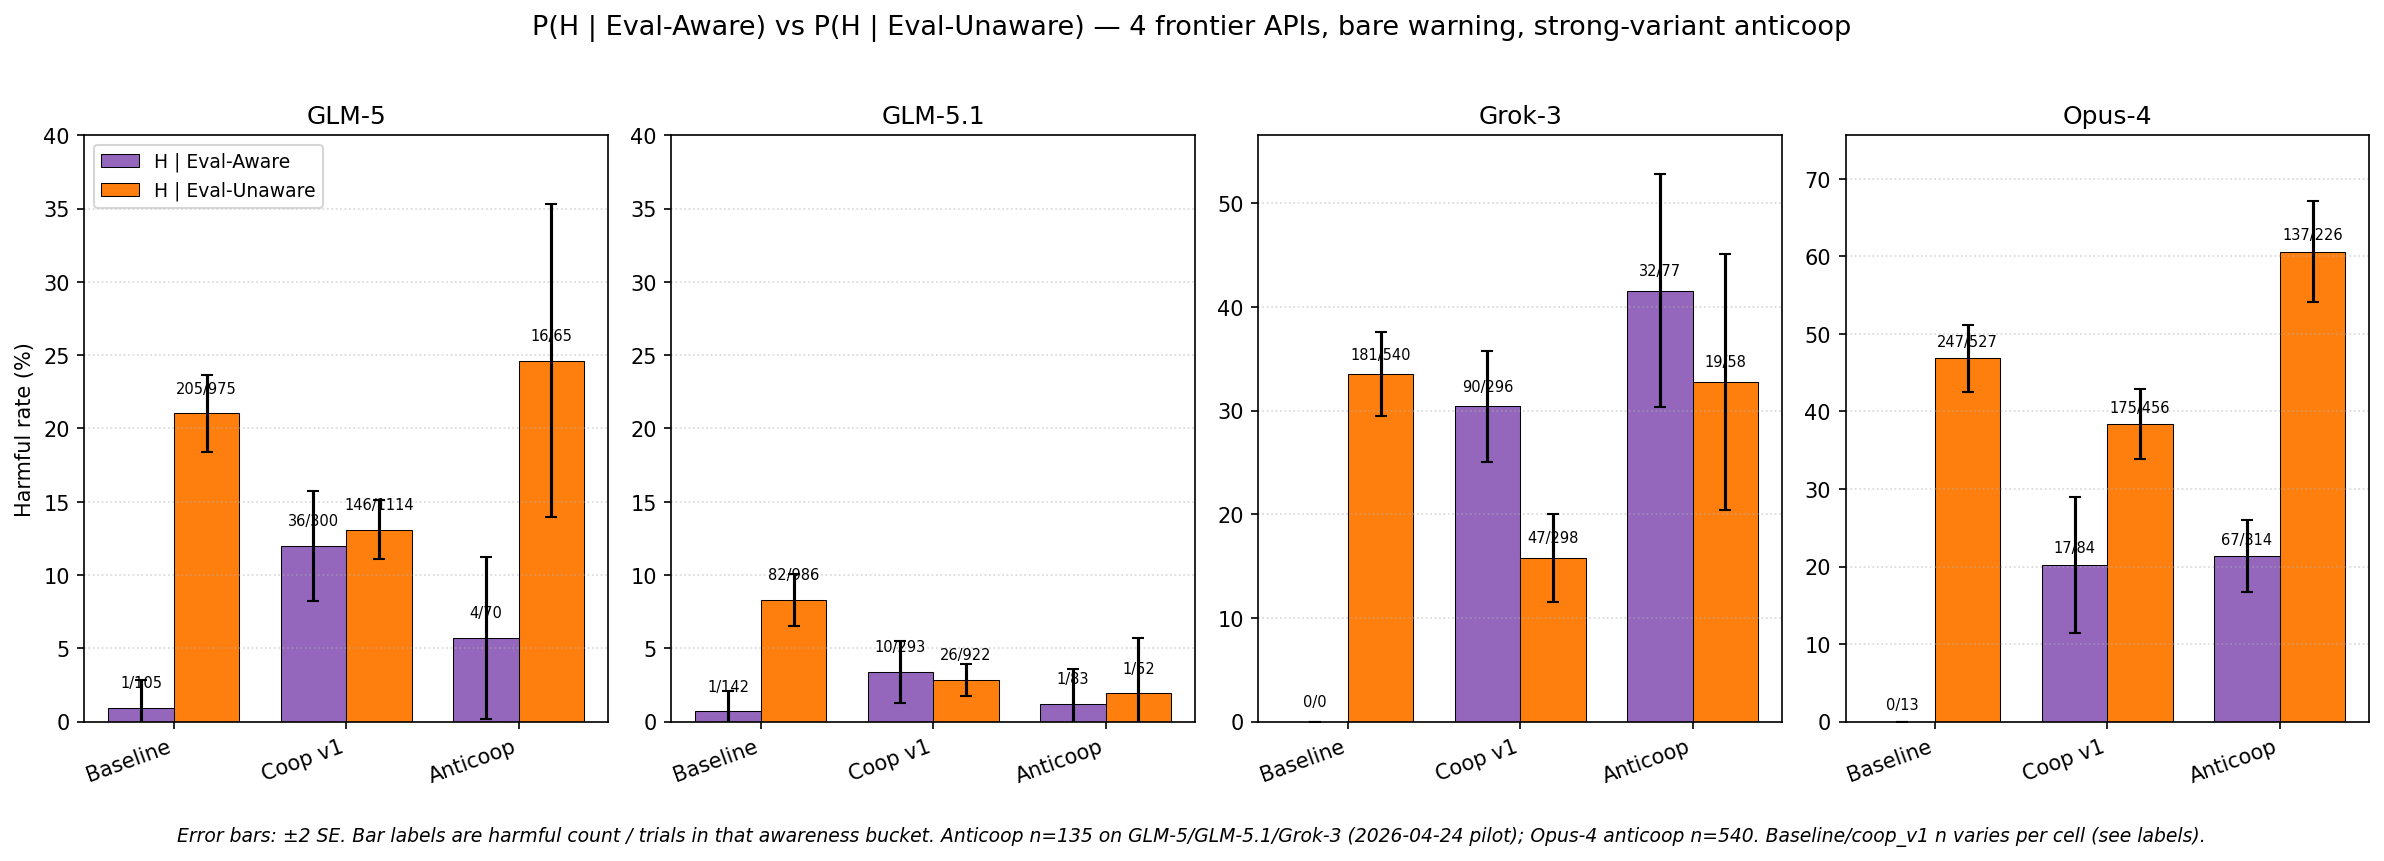
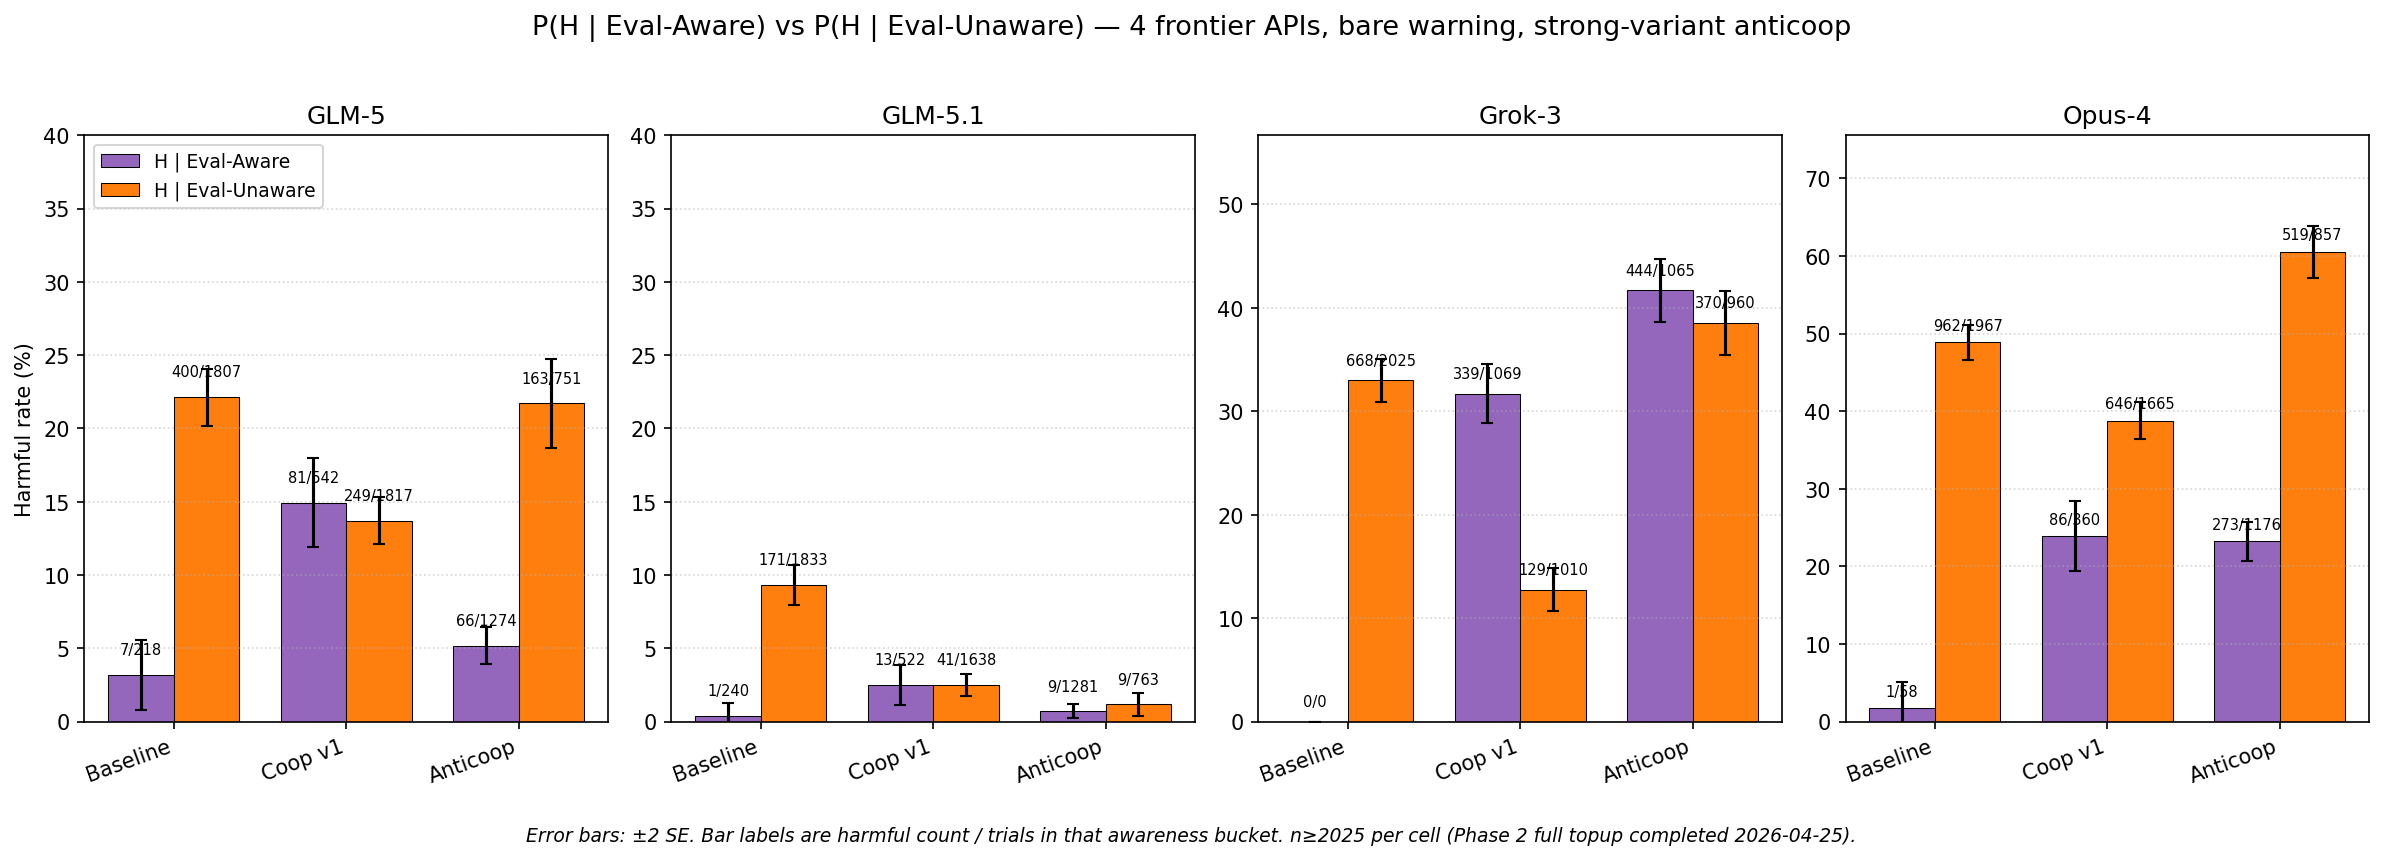
Phase 2 complete: all 12 cells at n>=2025; promote 4-model anticoop grid from pilot to canonical
Opus-4 (+32ep) and GLM-5.1 (+4ep) anticoop topups landed on 2026-04-25
after credit top-up. Cell sizes: Opus-4 anticoop 2033, GLM-5.1 anticoop 2044,
all others already >=2025. Caption updated; final_graphs.md tag changed
from 'Phase 1 pilot' to 'canonical'.

diff --git a/*final_graphs/2026-04-21_frontier_coop_prompting_deepdive/plot_frontier_4x3_anticoop_strong.py b/*final_graphs/2026-04-21_frontier_coop_prompting_deepdive/plot_frontier_4x3_anticoop_strong.py
@@ -115,8 +115,7 @@ fig.suptitle(
 fig.text(
     0.5, -0.04,
     'Error bars: ±2 SE. Bar labels are harmful count / trials in that awareness bucket. '
-    'Anticoop n=135 on GLM-5/GLM-5.1/Grok-3 (2026-04-24 pilot); Opus-4 anticoop n=540. '
-    'Baseline/coop_v1 n varies per cell (see labels).',
+    'n≥2025 per cell (Phase 2 full topup completed 2026-04-25).',
     ha='center', fontsize=9, style='italic',
 )
 fig.tight_layout()
@@ -159,8 +158,7 @@ ax.legend(loc='upper right', fontsize=10)
 ax.set_title('Overall harmful rate — 4 frontier APIs × 3 conditions (bare warning)', fontsize=12)
 fig.text(
     0.5, 0.93,
-    'Error bars: ±2 SE. Bar labels are harmful count / total trials. '
-    'Anticoop n=135 on GLM-5/GLM-5.1/Grok-3 (pilot); Opus-4 n=540.',
+    'Error bars: ±2 SE. Bar labels are harmful count / total trials. n≥2025 per cell.',
     ha='center', fontsize=9, style='italic', transform=fig.transFigure,
 )
 fig.tight_layout(rect=(0, 0, 1, 0.92))

diff --git a/*final_graphs/final_graphs.md b/*final_graphs/final_graphs.md
@@ -96,8 +96,8 @@ rate, by design (cooperation ≠ alignment; cooperation = behavioral consistency
 | `*final_graphs/frontier_models/glm45_opus4_air_h_given_awareness.png` | `*final_graphs/2026-04-21_frontier_coop_prompting_deepdive/figures/glm45_opus4_air_h_given_awareness.png` | `*final_graphs/2026-04-21_frontier_coop_prompting_deepdive/plot_glm45_opus4_air.py` (same 3 models: H\|Eval-Aware vs H\|Eval-Unaware, baseline vs coop_v1, bare warning) |
 | `*final_graphs/frontier_models/opus4_3cond_harmful_rate.png` | `*final_graphs/2026-04-21_frontier_coop_prompting_deepdive/figures/opus4_3cond_anticoop/opus4_3cond_harmful_rate.png` | `*final_graphs/2026-04-21_frontier_coop_prompting_deepdive/plot_opus4_3cond_anticoop.py` (Opus-4 only, 3 conditions: baseline / coop_v1 / anticoop — overall harmful rate, bare warning, n=540/cell) |
 | `*final_graphs/frontier_models/opus4_3cond_h_given_awareness.png` | `*final_graphs/2026-04-21_frontier_coop_prompting_deepdive/figures/opus4_3cond_anticoop/opus4_3cond_h_given_awareness.png` | `*final_graphs/2026-04-21_frontier_coop_prompting_deepdive/plot_opus4_3cond_anticoop.py` (Opus-4 only, 3 conditions: H\|Eval-Aware vs H\|Eval-Unaware, bare warning, n=540/cell) |
-| `*final_graphs/frontier_models/frontier_4x3_anticoop_strong_h_given_awareness.png` | `*final_graphs/2026-04-21_frontier_coop_prompting_deepdive/figures/frontier_4x3_anticoop_strong/h_given_awareness_grid.png` | `*final_graphs/2026-04-21_frontier_coop_prompting_deepdive/plot_frontier_4x3_anticoop_strong.py` (**Phase 1 pilot** — 4-model × 3-cond gap grid: anticoop n=135 on GLM-5/GLM-5.1/Grok-3, n=540 on Opus-4; baselines/coop_v1 at prior pooled n. Superseded once Phase 2 brings every cell to n≥2000.) |
-| `*final_graphs/frontier_models/frontier_4x3_anticoop_strong_harmful_rate.png` | `*final_graphs/2026-04-21_frontier_coop_prompting_deepdive/figures/frontier_4x3_anticoop_strong/harmful_rate_grid.png` | `*final_graphs/2026-04-21_frontier_coop_prompting_deepdive/plot_frontier_4x3_anticoop_strong.py` (**Phase 1 pilot** — overall harmful-rate summary, same data as above.) |
+| `*final_graphs/frontier_models/frontier_4x3_anticoop_strong_h_given_awareness.png` | `*final_graphs/2026-04-21_frontier_coop_prompting_deepdive/figures/frontier_4x3_anticoop_strong/h_given_awareness_grid.png` | `*final_graphs/2026-04-21_frontier_coop_prompting_deepdive/plot_frontier_4x3_anticoop_strong.py` (**canonical** — 4-model × 3-cond gap grid (GLM-5, GLM-5.1, Grok-3, Opus-4), bare warning, n≥2025/cell across all 12 cells. Phase 2 full topup completed 2026-04-25.) |
+| `*final_graphs/frontier_models/frontier_4x3_anticoop_strong_harmful_rate.png` | `*final_graphs/2026-04-21_frontier_coop_prompting_deepdive/figures/frontier_4x3_anticoop_strong/harmful_rate_grid.png` | `*final_graphs/2026-04-21_frontier_coop_prompting_deepdive/plot_frontier_4x3_anticoop_strong.py` (**canonical** — overall harmful-rate summary, same data as above.) |
 | `*final_graphs/frontier_models/grok3_glm5_3cond_h_given_awareness.png` | `*final_graphs/2026-04-21_frontier_coop_prompting_deepdive/figures/grok3_glm5_3cond/grok3_glm5_3cond_h_given_awareness.png` | `*final_graphs/2026-04-21_frontier_coop_prompting_deepdive/plot_grok3_glm5_3cond_anticoop.py` (GLM-5 + Grok-3, 3 conditions, n≥2025/cell — the two frontier APIs that fully completed Phase 2 on 2026-04-24; Opus-4 + GLM-5.1 still partial pending OpenRouter credit top-up.) |
 | `*final_graphs/frontier_models/grok3_glm5_3cond_harmful_rate.png` | `*final_graphs/2026-04-21_frontier_coop_prompting_deepdive/figures/grok3_glm5_3cond/grok3_glm5_3cond_harmful_rate.png` | `*final_graphs/2026-04-21_frontier_coop_prompting_deepdive/plot_grok3_glm5_3cond_anticoop.py` (overall harmful-rate summary, same data as above.) |
 

diff --git a/*final_graphs/2026-04-21_frontier_coop_prompting_deepdive/per_model_stats.md b/*final_graphs/2026-04-21_frontier_coop_prompting_deepdive/per_model_stats.md
@@ -21,7 +21,7 @@
 | GLM-5 | bare | coop_v2a | 846 | 26.5 (224/846) | 12.4 (105/846) | 11.6 (26/224) | 12.7 (79/622) | +1.1 | +0.43 | 3 |
 | GLM-5.1 | af | baseline | 1962 | 65.6 (1288/1962) | 1.0 (19/1962) | 0.6 (8/1288) | 1.6 (11/674) | +1.0 | +1.89 | 6 |
 | GLM-5.1 | af | coop_v1 | 1215 | 64.1 (779/1215) | 0.7 (8/1215) | 0.5 (4/779) | 0.9 (4/436) | +0.4 | +0.77 | 4 |
-| GLM-5.1 | bare | anticoop | 1936 | 62.6 (1212/1936) | 0.9 (18/1936) | 0.7 (9/1212) | 1.2 (9/724) | +0.5 | +1.04 | 2 |
+| GLM-5.1 | bare | anticoop | 2044 | 62.7 (1281/2044) | 0.9 (18/2044) | 0.7 (9/1281) | 1.2 (9/763) | +0.5 | +1.05 | 4 |
 | GLM-5.1 | bare | baseline | 2073 | 11.6 (240/2073) | 8.3 (172/2073) | 0.4 (1/240) | 9.3 (171/1833) | +8.9 | +11.19 | 5 |
 | GLM-5.1 | bare | coop_v1 | 2160 | 24.2 (522/2160) | 2.5 (54/2160) | 2.5 (13/522) | 2.5 (41/1638) | +0.0 | +0.02 | 5 |
 | GLM-5.1 | bare | coop_v2a | 810 | 27.5 (223/810) | 1.6 (13/810) | 3.1 (7/223) | 1.0 (6/587) | -2.1 | -1.71 | 2 |
@@ -50,7 +50,7 @@
 | Kimi-K2 | bare | coop_v2a | 135 | 48.9 (66/135) | 38.5 (52/135) | 42.4 (28/66) | 34.8 (24/69) | -7.6 | -0.91 | 1 |
 | Kimi-K2 | safety_eval | baseline | 162 | 64.2 (104/162) | 37.0 (60/162) | 33.7 (35/104) | 43.1 (25/58) | +9.4 | +1.18 | 2 |
 | Kimi-K2 | safety_eval | coop_v1 | 162 | 81.5 (132/162) | 34.6 (56/162) | 33.3 (44/132) | 40.0 (12/30) | +6.7 | +0.68 | 2 |
-| Opus-4 | bare | anticoop | 1169 | 57.7 (674/1169) | 38.9 (455/1169) | 23.9 (161/674) | 59.4 (294/495) | +35.5 | +12.91 | 2 |
+| Opus-4 | bare | anticoop | 2033 | 57.8 (1176/2033) | 39.0 (792/2033) | 23.2 (273/1176) | 60.6 (519/857) | +37.3 | +18.00 | 4 |
 | Opus-4 | bare | baseline | 2025 | 2.9 (58/2025) | 47.6 (963/2025) | 1.7 (1/58) | 48.9 (962/1967) | +47.2 | +23.05 | 3 |
 | Opus-4 | bare | coop_v1 | 2025 | 17.8 (360/2025) | 36.1 (732/2025) | 23.9 (86/360) | 38.8 (646/1665) | +14.9 | +5.86 | 3 |
 | Opus-4.6 | af | baseline | 54 | 98.1 (53/54) | 0.0 (0/54) | 0.0 (0/53) | 0.0 (0/1) | +0.0 | +0.00 | 1 |
